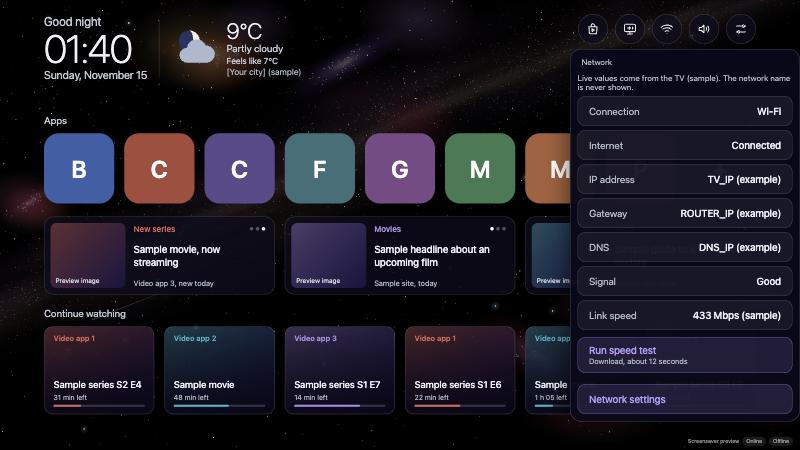
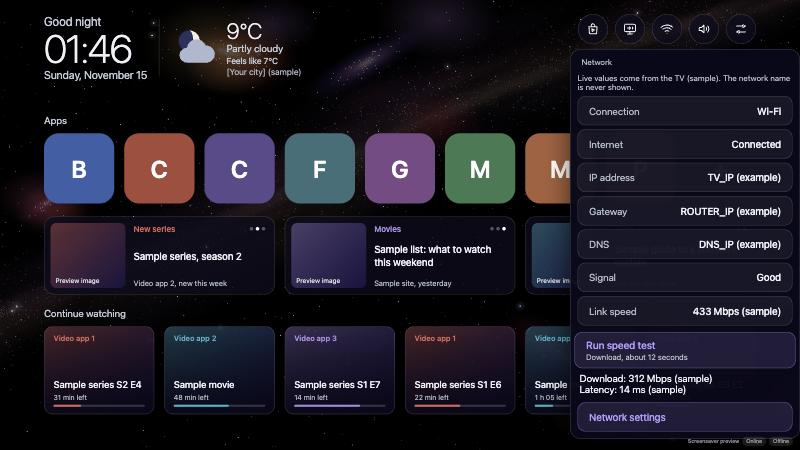
Sync the site with the repos

diff --git a/stardrifttvlauncher/index.html b/stardrifttvlauncher/index.html
@@ -163,8 +163,8 @@ a:focus-visible,button:focus-visible,input:focus-visible{outline:3px solid var(-
 <h1 class="hd">Stardrift TV Launcher</h1><p class="lead">A calm, ad-free home screen for Google TV: a slowly drifting night sky, your apps, your news, your shows.</p>
 <a class="btn p" href="#get">How to get it</a> <a class="btn o" href="#demo">&#9654; Try it in your browser</a></div></div>
 <div class="strip"><dl class="meta"><dt>Price</dt><dd>Free</dd><dt>License</dt><dd>GNU General Public License v3.0</dd><dt>Type</dt><dd>Google TV app</dd><dt>Source</dt><dd><a href="https://github.com/SpeakingColors/StarDriftTVLauncher"><svg class="gh" viewBox="0 0 16 16" aria-hidden="true"><path d="M8 0C3.58 0 0 3.58 0 8c0 3.54 2.29 6.53 5.47 7.59.4.07.55-.17.55-.38 0-.19-.01-.82-.01-1.49-2.01.37-2.53-.49-2.69-.94-.09-.23-.48-.94-.82-1.13-.28-.15-.68-.52-.01-.53.63-.01 1.08.58 1.23.82.72 1.21 1.87.87 2.33.66.07-.52.28-.87.51-1.07-1.78-.2-3.64-.89-3.64-3.95 0-.87.31-1.59.82-2.15-.08-.2-.36-1.02.08-2.12 0 0 .67-.21 2.2.82.64-.18 1.32-.27 2-.27.68 0 1.36.09 2 .27 1.53-1.04 2.2-.82 2.2-.82.44 1.1.16 1.92.08 2.12.51.56.82 1.27.82 2.15 0 3.07-1.87 3.75-3.65 3.95.29.25.54.73.54 1.48 0 1.07-.01 1.93-.01 2.2 0 .21.15.46.55.38A8.013 8.013 0 0016 8c0-4.42-3.58-8-8-8z"/></svg> github.com/SpeakingColors/StarDriftTVLauncher</a></dd></dl></div>
-<section class="about"><h2 class="sec">About Stardrift TV Launcher</h2><div class="abt"><div><p>Stardrift replaces the busy Google TV home screen with something quiet. Behind everything is a black night sky that drifts slowly past galaxies, coloured stars and the odd satellite, one full turn every 20 minutes. On top you get a greeting, the clock and the weather, your apps, a row of news you chose yourself, and what you were watching. No ads, no suggestions, nothing sponsored. It is made to be simple, and it sounds as calm as it looks, with a soft ambient song and gentle sounds as you move around.</p><p class="stat">Status: in development.</p></div><div><h3 class="ph">What it does</h3><ul class="pts"><li>A night sky that drifts slowly, with galaxies, stars, a rare satellite and a quiet nova</li><li>Greeting with your name, clock, date and weather</li><li>Reorder your apps, hide the ones you don&#x27;t want, and give icons a Black or White look</li><li>Show, hide and reorder the home rows from Settings</li><li>News row from the feeds you choose, plus Continue watching</li><li>Soft ambient song and interface sounds, each with its own switch and volume</li><li>Its own matching screensaver</li><li>No ads, no suggestions, no sponsored items</li></ul></div></div><p><span class="tag">android-tv</span><span class="tag">google-tv</span><span class="tag">launcher</span><span class="tag">no-ads</span><span class="tag">open-source</span></p></section>
-<section class="guide"><h2 class="sec">How to use it</h2><p class="sub">Everything works with the TV remote: arrows move, OK opens, Back goes back, and press and hold on an item opens its menu. Try it yourself above.</p><div class="gfs"><figure class="gf"><img src="/img/guide/StarDriftTVLauncher/settings.jpg" alt="Settings: quick actions, shortcuts, home rows and hidden apps." loading="lazy" width="800" height="450"><figcaption>Settings: quick actions, shortcuts, home rows and hidden apps.</figcaption></figure><figure class="gf"><img src="/img/guide/StarDriftTVLauncher/rows.jpg" alt="Home rows: show or hide each row, then reorder them." loading="lazy" width="800" height="450"><figcaption>Home rows: show or hide each row, then reorder them.</figcaption></figure><figure class="gf"><img src="/img/guide/StarDriftTVLauncher/network.jpg" alt="Network: connection status and a built-in speed test." loading="lazy" width="800" height="450"><figcaption>Network: connection status and a built-in speed test.</figcaption></figure></div><div class="gd"><div class="gc"><b>Simple on purpose</b><p>Home has four things: greeting, clock and weather; your apps; a row of news cards; and Continue watching. The sky behind them is only decoration and asks for no attention.</p></div><div class="gc"><b>Your apps, your order</b><p>Press and hold an app to move it, hide it, take it off the dock or open its info. The last tile opens All apps. Icons can have a Black or White look on apps that support it.</p></div><div class="gc"><b>Rows you can reorder or hide</b><p>In Settings, Home rows, switch Apps, News and Continue watching on or off and put them in any order. A hidden row takes no space and the others move up.</p></div><div class="gc"><b>Your own news</b><p>The news row starts empty. Add RSS feeds on the TV or from your phone, group them into cards you name yourself (up to four), and open any headline in a reader.</p></div><div class="gc"><b>Continue watching</b><p>Shows what you were in the middle of, when your streaming apps share it with the TV. If they don&#x27;t, it shows the apps you opened last.</p></div><div class="gc"><b>Sound that stays out of the way</b><p>A soft ambient song fades in on the home screen, and gentle sounds mark moving, selecting and going back. Music and effects have separate switches and volumes, and the music stays silent when another app plays audio.</p></div><div class="gc"><b>Handy icons at the top</b><p>Play Store, TV inputs, network status with a speed test, sound, and Settings with shortcuts and quick actions such as closing background apps and clearing cache.</p></div><div class="gc"><b>A matching screensaver</b><p>The same drifting sky with a 24-hour clock, the date and a Wi-Fi icon, with the ambient song if Music is on.</p></div></div></section><section class="getit" id="get"><h2 class="sec">Get it on your TV</h2><p class="sub">There is no ready-made install file. You build your own copy, signed with your own key, and GitHub does the building for you. You don&#x27;t need Android Studio.</p><ol class="steps2"><li>Fork the project on GitHub.</li><li>Create a signing key and add two secrets to your fork.</li><li>Run the Build APK workflow in your fork, then download the file from its Releases page.</li><li>Install it on the TV with ADB, using your TV&#x27;s address: adb connect TV_IP:PORT</li></ol><p><a href="https://github.com/SpeakingColors/StarDriftTVLauncher/blob/main/docs/BUILD.md">Full step-by-step guide on GitHub</a></p></section><section class="expect"><h2 class="sec">What to expect</h2><ul class="pts"><li>Works on Google TV and Android TV, Android 8.0 or newer.</li><li>It&#x27;s a hobby project, tested mostly on one TV, and comes as is. If it doesn&#x27;t suit your model you can fork it and fix it.</li><li>Weather comes from Open-Meteo, and the news row only talks to the feeds you add.</li><li>The Home button may still open Google&#x27;s own home screen on some TVs; the manual explains how to make Stardrift the default.</li></ul></section>
+<section class="about"><h2 class="sec">About Stardrift TV Launcher</h2><div class="abt"><div><p>Stardrift replaces the busy Google TV home screen with something quiet. Behind everything is a black night sky that drifts slowly past galaxies, coloured stars and the odd satellite, one full turn every 20 minutes. On top you get a greeting, the clock and the weather, your apps, a row of news you chose yourself, and what you were watching. No ads, no suggestions, nothing sponsored. It is made to be simple, and it sounds as calm as it looks, with a soft ambient song and gentle sounds as you move around.</p><p class="stat">Status: in development.</p></div><div><h3 class="ph">What it does</h3><ul class="pts"><li>A night sky that drifts slowly, with galaxies, stars, a rare satellite and a quiet nova</li><li>Greeting with your name, clock, date and weather</li><li>Reorder your apps, hide the ones you don&#x27;t want, and give icons a Black or White look</li><li>Show, hide and reorder the home rows from Settings</li><li>News row from the feeds you choose, plus Continue watching</li><li>Soft ambient song and interface sounds, each with its own switch and volume</li><li>Add news feeds from your phone</li><li>Close background apps, clear cache and run a speed test from the launcher</li><li>Its own matching screensaver</li><li>No ads, no suggestions, no sponsored items</li></ul></div></div><p><span class="tag">android-tv</span><span class="tag">google-tv</span><span class="tag">launcher</span><span class="tag">no-ads</span><span class="tag">open-source</span></p></section>
+<section class="guide"><h2 class="sec">How to use it</h2><p class="sub">Everything works with the TV remote: arrows move, OK opens, Back goes back, and press and hold on an item opens its menu. Try it yourself above.</p><div class="gfs"><figure class="gf"><img src="/img/guide/StarDriftTVLauncher/app-menu.jpg" alt="Press and hold an app: move it, see its info, hide it, take it off the dock or uninstall it." loading="lazy" width="800" height="450"><figcaption>Press and hold an app: move it, see its info, hide it, take it off the dock or uninstall it.</figcaption></figure><figure class="gf"><img src="/img/guide/StarDriftTVLauncher/news-menu.jpg" alt="Press and hold a news card to refresh it or edit its sources." loading="lazy" width="800" height="450"><figcaption>Press and hold a news card to refresh it or edit its sources.</figcaption></figure><figure class="gf"><img src="/img/guide/StarDriftTVLauncher/feeds.jpg" alt="Feed sources: switch feeds on or off, add them by web address or from your phone." loading="lazy" width="800" height="450"><figcaption>Feed sources: switch feeds on or off, add them by web address or from your phone.</figcaption></figure><figure class="gf"><img src="/img/guide/StarDriftTVLauncher/rows.jpg" alt="Home rows: show or hide each row, then reorder them." loading="lazy" width="800" height="450"><figcaption>Home rows: show or hide each row, then reorder them.</figcaption></figure><figure class="gf"><img src="/img/guide/StarDriftTVLauncher/settings.jpg" alt="Settings: Close background apps, Clear cache, shortcuts, home rows and hidden apps." loading="lazy" width="800" height="450"><figcaption>Settings: Close background apps, Clear cache, shortcuts, home rows and hidden apps.</figcaption></figure><figure class="gf"><img src="/img/guide/StarDriftTVLauncher/network.jpg" alt="Network: connection status and a built-in speed test." loading="lazy" width="800" height="450"><figcaption>Network: connection status and a built-in speed test.</figcaption></figure></div><div class="gd"><div class="gc"><b>Simple on purpose</b><p>Home has four things: greeting, clock and weather; your apps; a row of news cards; and Continue watching. The sky behind them is only decoration and asks for no attention.</p></div><div class="gc"><b>Press and hold for more</b><p>Hold OK on an app to move it, open its info, hide it, take it off the dock or uninstall it. Hold a news card to refresh it or edit its sources. Hold Continue watching to refresh it or choose which apps it follows.</p></div><div class="gc"><b>Your apps, your order</b><p>Put the apps you use on the dock in the order you like. The last tile opens All apps. Some apps can also have a Black or White icon look, so the dock matches your taste.</p></div><div class="gc"><b>Rows you can reorder or hide</b><p>In Settings, Home rows, switch Apps, News and Continue watching on or off and put them in any order. A hidden row takes no space and the others move up.</p></div><div class="gc"><b>Your own news from RSS feeds</b><p>The news row starts empty. Add RSS feeds by web address, group them into cards you name yourself (up to four), and open any headline in a reader. The manual explains how to find a feed, and your AI assistant can help.</p></div><div class="gc"><b>Add feeds from your phone</b><p>Typing web addresses with a remote is slow. Choose Add feeds from your phone, open the address the TV shows on your phone (same Wi-Fi), type the PIN, and paste up to 20 feeds at once. Each one is checked, and the page only exists while that screen is open on the TV.</p></div><div class="gc"><b>Close background apps</b><p>In Settings, Quick actions, Close background apps stops the apps you installed that are still running, to free memory. The TV&#x27;s own apps are left alone.</p></div><div class="gc"><b>Clear cache</b><p>Clear cache empties the cache of every app and tells you how much space it freed. Both quick actions use the TV&#x27;s own debugging service, so the TV asks you once to allow it.</p></div><div class="gc"><b>Speed test</b><p>The Network icon shows your connection, signal, IP address, gateway and link speed, and runs a download speed test (about 12 seconds) with latency. The name of your network is never shown.</p></div><div class="gc"><b>Continue watching</b><p>Shows what you were in the middle of, when your streaming apps share it with the TV. If they don&#x27;t, it shows the apps you opened last.</p></div><div class="gc"><b>Sound that stays out of the way</b><p>A soft ambient song fades in on the home screen, and gentle sounds mark moving, selecting and going back. Music and effects have separate switches and volumes, and the music stays silent when another app plays audio.</p></div><div class="gc"><b>A matching screensaver</b><p>The same drifting sky with a 24-hour clock, the date and a Wi-Fi icon, with the ambient song if Music is on.</p></div></div></section><section class="getit" id="get"><h2 class="sec">Get it on your TV</h2><p class="sub">There is no ready-made install file. You build your own copy, signed with your own key, and GitHub does the building for you. You don&#x27;t need Android Studio.</p><ol class="steps2"><li>Fork the project on GitHub.</li><li>Create a signing key and add two secrets to your fork.</li><li>Run the Build APK workflow in your fork, then download the file from its Releases page.</li><li>Install it on the TV with ADB, using your TV&#x27;s address: adb connect TV_IP:PORT</li></ol><p><a href="https://github.com/SpeakingColors/StarDriftTVLauncher/blob/main/docs/BUILD.md">Full step-by-step guide on GitHub</a></p></section><section class="expect"><h2 class="sec">What to expect</h2><ul class="pts"><li>Works on Google TV and Android TV, Android 8.0 or newer.</li><li>It&#x27;s a hobby project, tested mostly on one TV, and comes as is. If it doesn&#x27;t suit your model you can fork it and fix it.</li><li>Weather comes from Open-Meteo, and the news row only talks to the feeds you add.</li><li>The Home button may still open Google&#x27;s own home screen on some TVs; the manual explains how to make Stardrift the default.</li></ul></section>
 
 <div class="support"><div class="hd">If it helps your music, buy me a coffee.</div><a class="btn" href="https://ko-fi.com/studio87">Support on Ko-fi</a></div></div></main>
 <footer><div class="wrap"><div class="fcols"><div><b>Studio 87</b>Free, open source music software, Linux first. Made by one person.</div><div><b>Browse</b><a href="/#synths">Synths</a><a href="/#dynamics">Compressors and EQ</a><a href="/#hardware-controllers">Hardware controllers</a><a href="/gearupdater/">Gear Updater</a></div><div><b>Links</b><a href="/support/">Support Studio 87</a><a href="/privacy/">Privacy</a><a href="https://github.com/SpeakingColors">GitHub</a><a href="https://www.youtube.com/@sonatural_" rel="me noopener">YouTube</a><a href="/llms.txt">Plain-text summary</a></div></div>Each project has its own open source license; see its page. To build on a project, fork it on GitHub.</div></footer>
